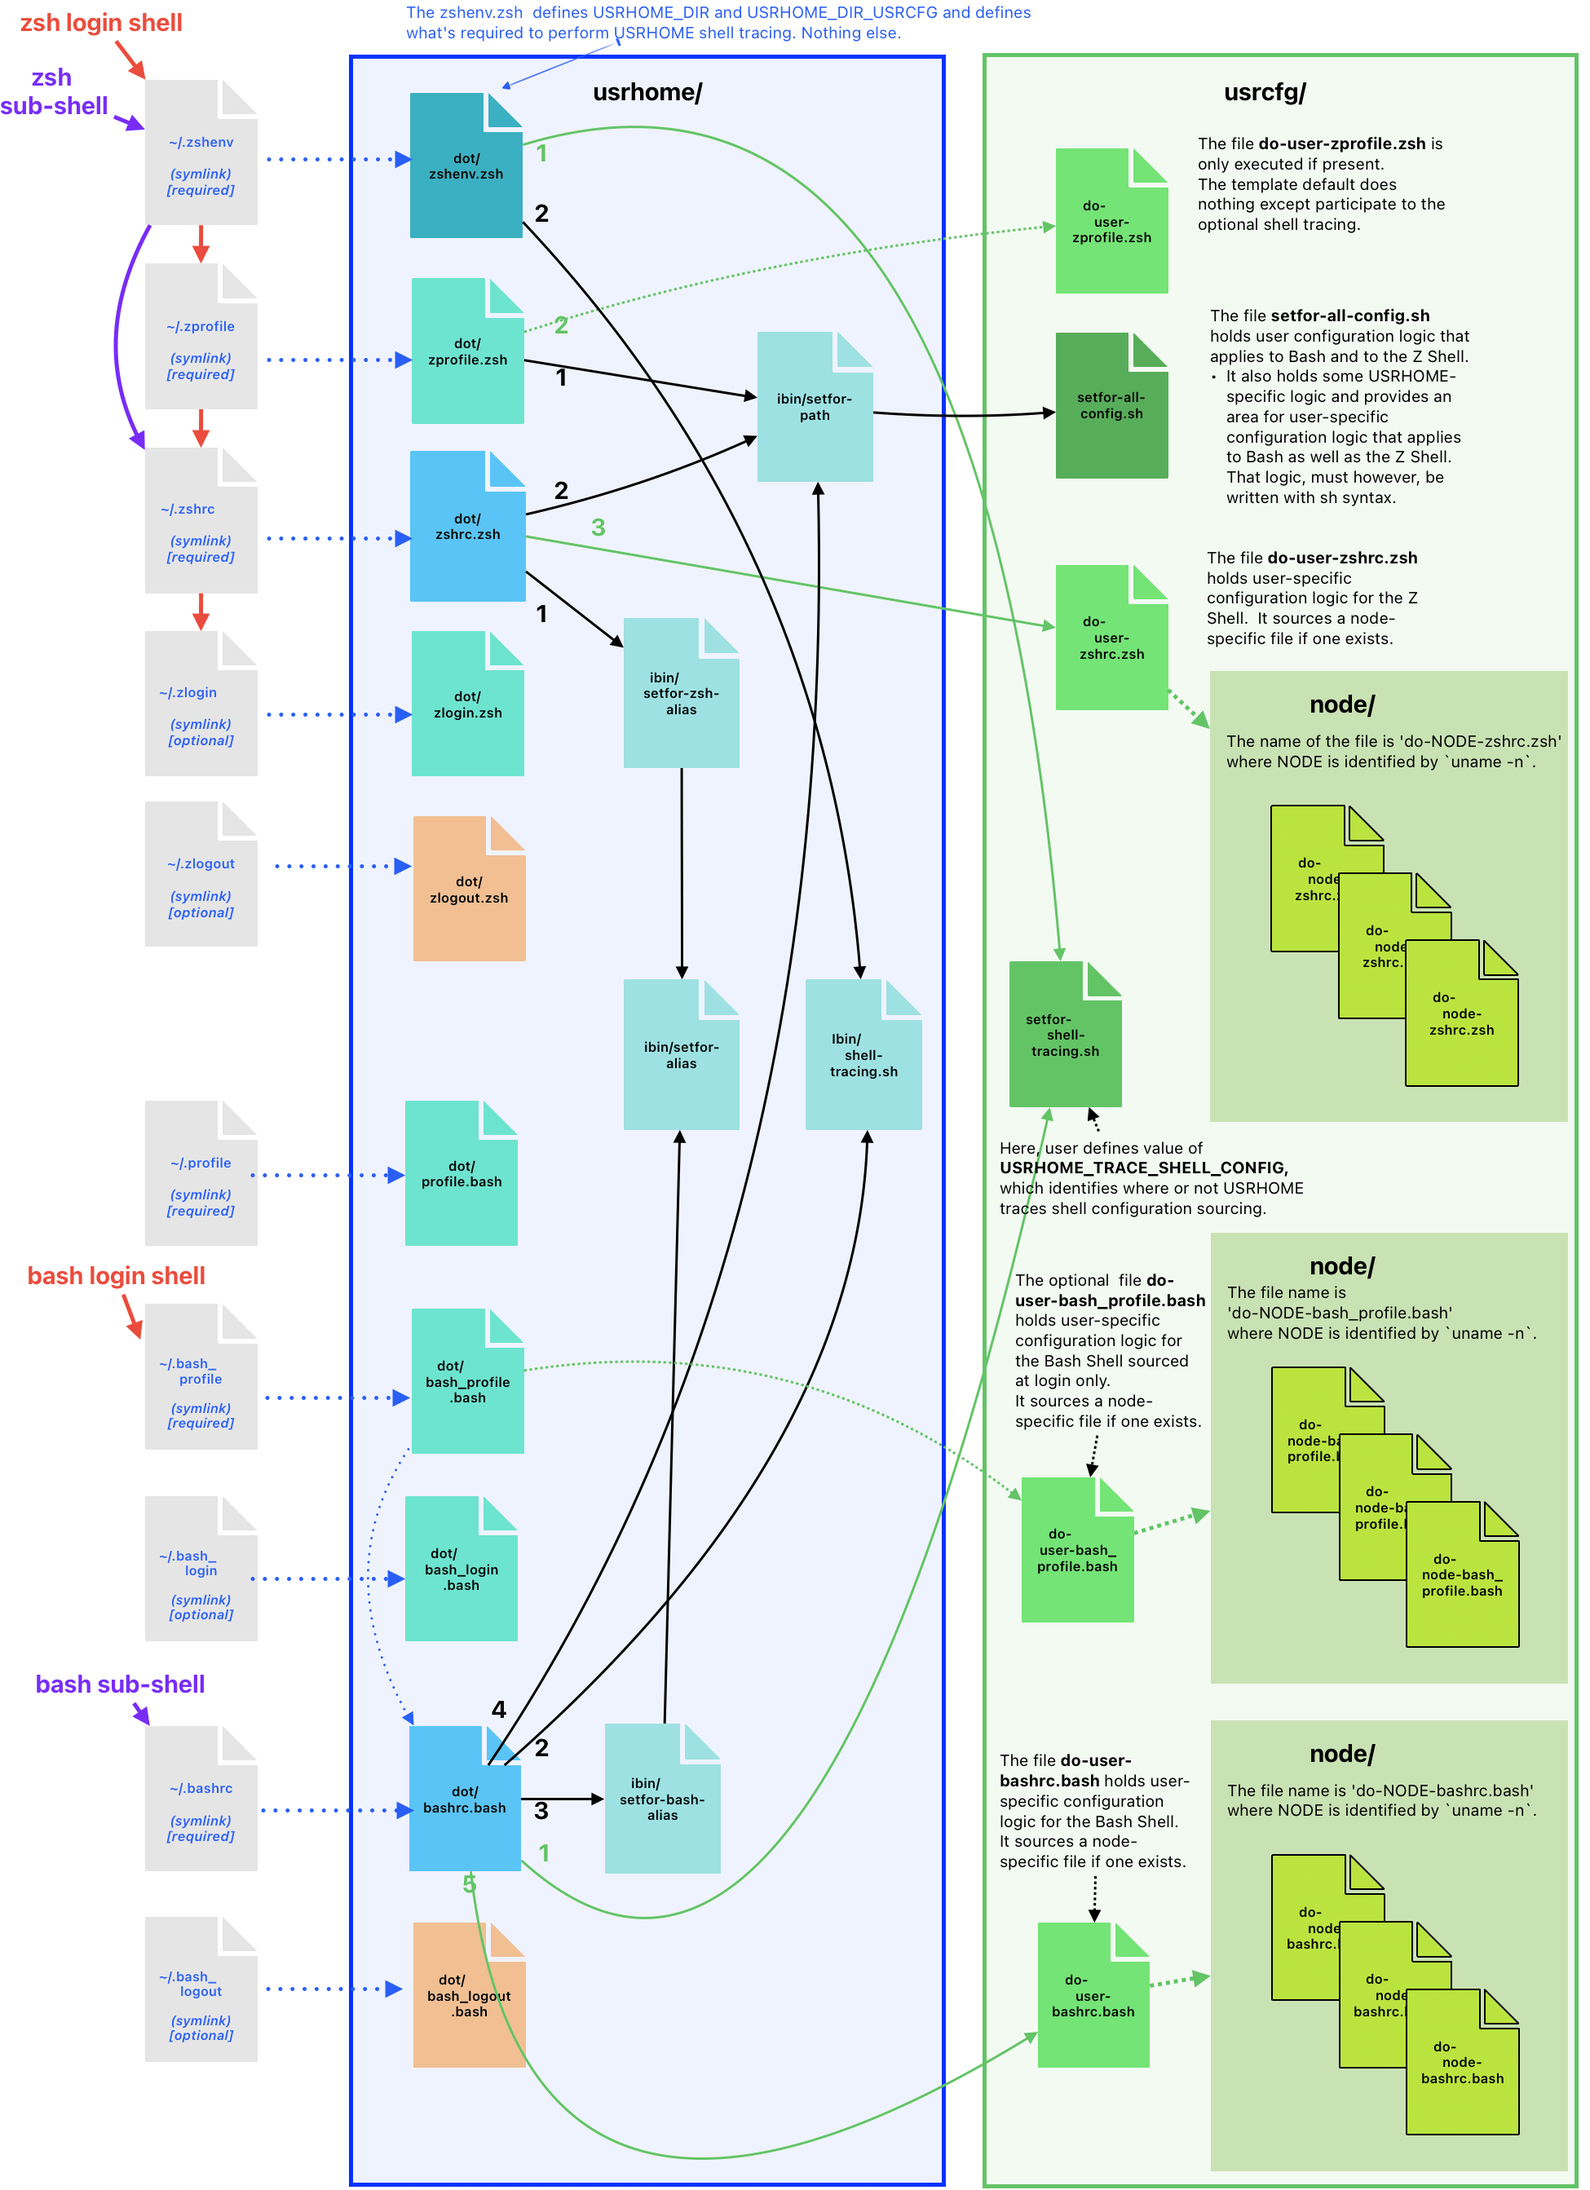
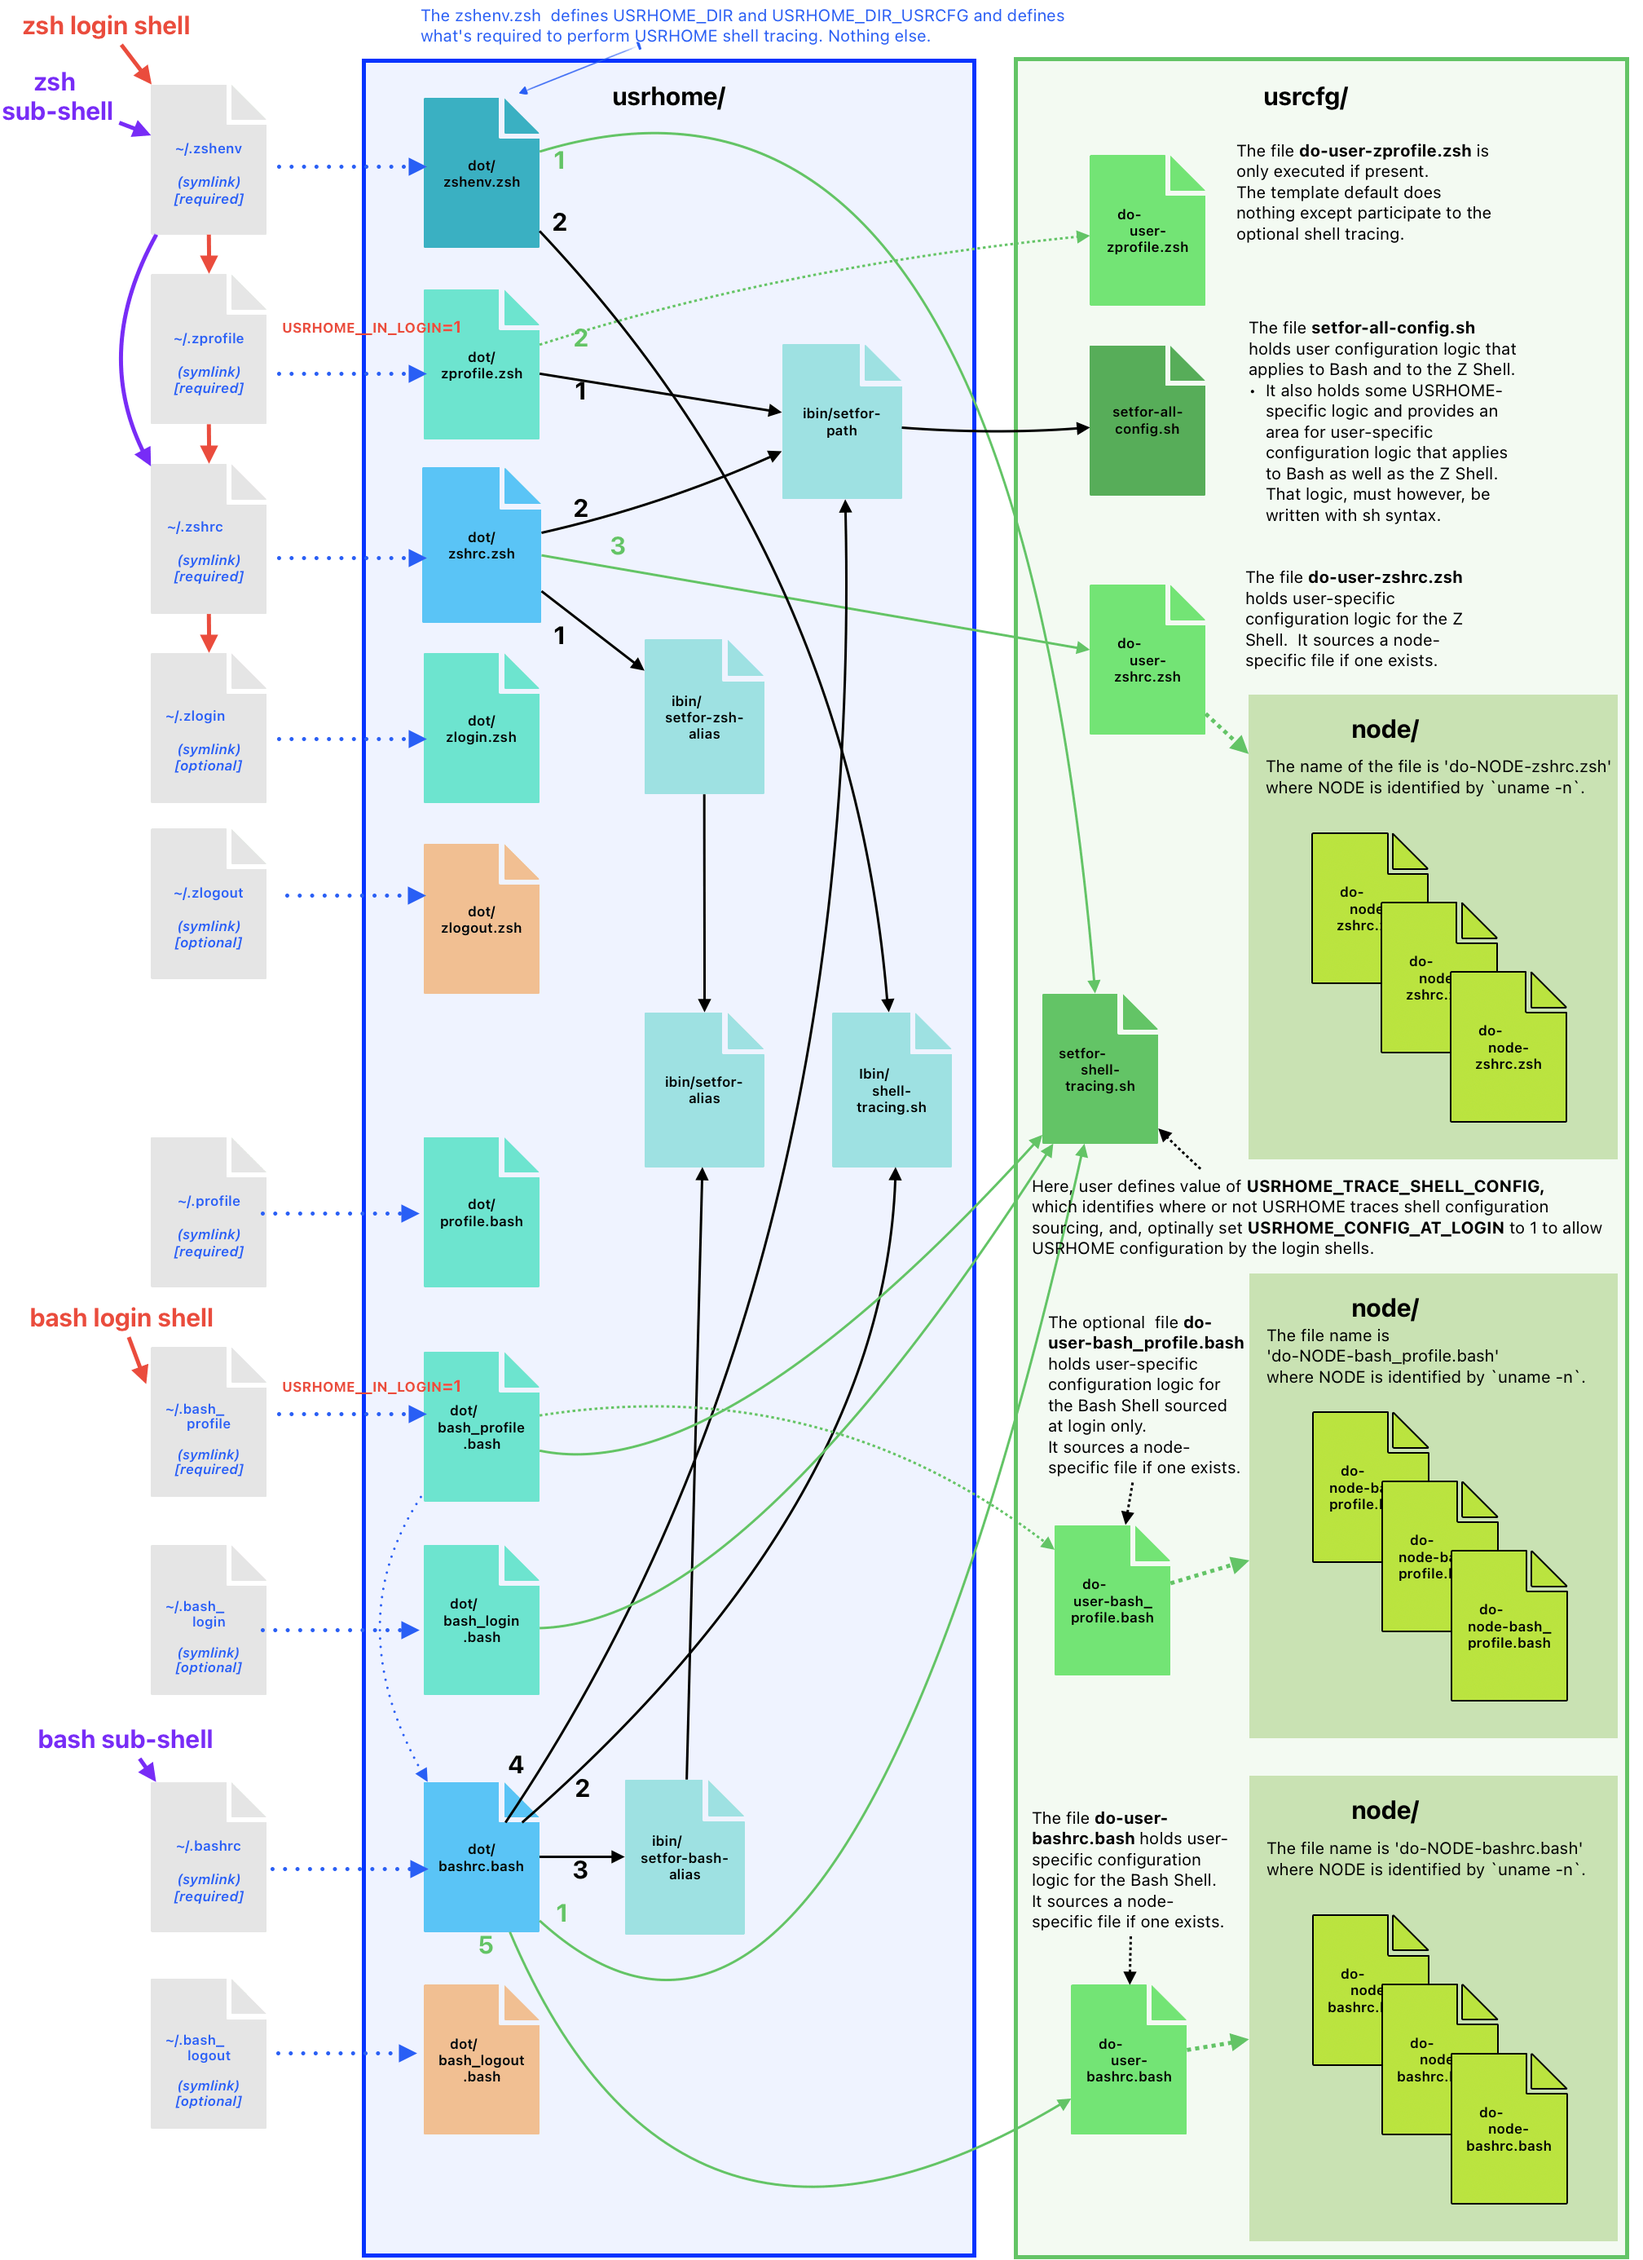
USRHOME_CONFIG_AT_LOGIN controls USRHOME config in login shell
Set USRHOME_CONFIG_AT_LOGIN to 1 inside usrcfg/setfor-shell-tracing.sh
to allow interactive shell USRHOME driven configuration to also be done
inside a login shell.

diff --git a/readme.rst b/readme.rst
@@ -252,6 +252,13 @@ USRHOME_PROMPT_SHOW_USR_HOST    Set to 1 to display user name and host name
                                 command to
                                 toggle this in the current shell.
 
+USRHOME_CONFIG_AT_LOGIN         Set to 1 to inform USRHOME files to perform
+                                configuration when invoked in a login shell.
+                                If you want to restrict use of USRHOME controlled
+                                configuration to interactive shells, don't set it,
+                                or set it to 0.  If set this must be set inside the
+                                `usrcfg/setfor-all-config.sh`_ file.
+
 USRHOME_USE_HOMEBREW            Set to 1 when using Homebrew, to add Homebrew
                                 directories to the PATH.
 
@@ -329,18 +336,26 @@ USRHOME_SHOW_PATH_ACTIVATION    Set to 1 to see PATH changes done by the various
 When USRHOME Z Shell startup logic executes, USRHOME sets these other
 environment variables:
 
-=============================== =================================================
-Environment Variable Name       Purpose
-=============================== =================================================
-USRHOME_DIR_DV                  Development directory, used by USRHOME `Directory Navigation`_.
-USRHOME_DIR_MY                  Main user directory, used by USRHOME `Directory Navigation`_.
-USRHOME_DIR_PRIV                Private development directory, , used by USRHOME `Directory Navigation`_.
-USRHOME_DIR_PUB                 Public development directory, , used by USRHOME `Directory Navigation`_.
-USRHOME_DIR_USRCFG              The path of the user configuration directory.
-                                Something like ``/Users/roup/my/dv/usrcfg``
-USRHOME__PATH_SET               Internal logic flag.
-USRHOME__USRCFG_SEEN            Internal logic flag.
-=============================== =================================================
+================================== ================================================================
+Environment Variable Name          Purpose
+================================== ================================================================
+USRHOME_DIR_DV                     Development directory, used by USRHOME `Directory Navigation`_.
+USRHOME_DIR_MY                     Main user directory, used by USRHOME `Directory Navigation`_.
+USRHOME_DIR_PRIV                   Private development directory, , used by USRHOME `Directory Navigation`_.
+USRHOME_DIR_PUB                    Public development directory, , used by USRHOME `Directory Navigation`_.
+USRHOME_DIR_USRCFG                 The path of the user configuration directory.
+                                   Something like ``/Users/roup/my/dv/usrcfg``
+USRHOME__IN_LOGIN                  Internal logic flag set to 1 by `usrhome/dot/zprofile.zsh`_ and
+                                   `usrhome/dot/bash_profile.bash`_ to inform the shell code that
+                                   the sourcing of the configuration files is being done by a login
+                                   shell.  When the sourcing of the configuration file is done by a
+                                   sub-shell this is not set.  The `usrcfg/setfor-all-config.sh`_ file
+                                   can set the USRHOME_CONFIG_AT_LOGIN flag to 1 to indicate the
+                                   USRHOME configuration should be done at login.
+
+USRHOME__PATH_SET                  Internal logic flag.
+USRHOME__USRCFG_SEEN               Internal logic flag.
+================================== ================================================================
 
 
 USRHOME Commands and Scripts
@@ -1555,5 +1570,8 @@ Thanks!
 .. _emacsclient:                                  https://www.gnu.org/software/emacs/manual/html_node/emacs/Invoking-emacsclient.html
 .. _usrhome/ibin/envfor-emacs-for-man:            https://github.com/pierre-rouleau/usrhome/blob/main/ibin/envfor-emacs-for-man
 .. _Emacs 'string-format' regular expression syntax:              https://raw.githubusercontent.com/pierre-rouleau/pel/master/doc/pdf/search-replace.pdf#page=9
+.. _usrhome/dot/zprofile.zsh:                     https://github.com/pierre-rouleau/usrhome/blob/main/dot/zprofile.zsh
+.. _usrhome/dot/bash_profile.bash:                https://github.com/pierre-rouleau/usrhome/blob/main/dot/bash_profile.bash
+.. _usrcfg/setfor-all-config.sh:                  https://github.com/pierre-rouleau/usrhome/blob/main/template/usrcfg/setfor-all-config.sh
 
 .. ---------------------------------------------------------------------------
